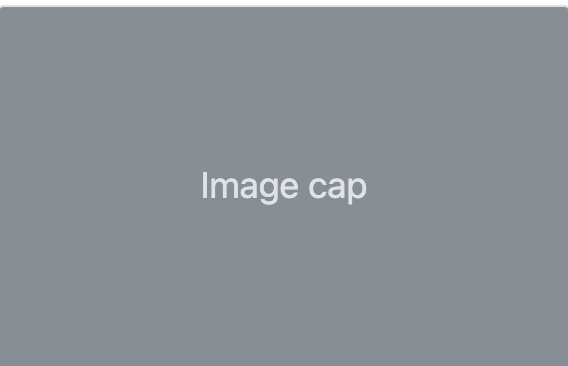
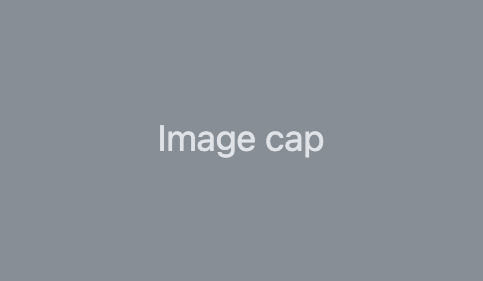
added correctly card

Changed region(s): [[0.3106, 0.4555, 0.6832, 0.5694], [0.0, 0.0, 1.0, 0.0285]]

diff --git a/04 Card/style.css b/04 Card/style.css
@@ -13,21 +13,18 @@ a{
 .all-card{
     width: 16.5em;
     margin: 20px 10px;
-}
-
-
-.card {
     border: solid 1px  rgb(148, 144, 144);
-  
+    border-radius: 5px;
 }
+
 .card div{
     border-top: solid 1px  rgb(148, 144, 144);
     margin: 10px 0;
 }
 
 .card_img{
-    height: 170px;
-    margin-bottom: -7px;
+    height: 100%;
+    width: 16.5em;
 }
 
 .card_links {

diff --git a/04 Card/index.html b/04 Card/index.html
@@ -14,9 +14,7 @@
   </head>
   <body>
     <div class="all-card">
-  <div class="img">
        <img src="foto.png" alt="Image" class="card_img" />
-  </div>
   <div class="card">
       <h3>Card Title</h3>
       <p>Some quick exemple text to build <br/>
